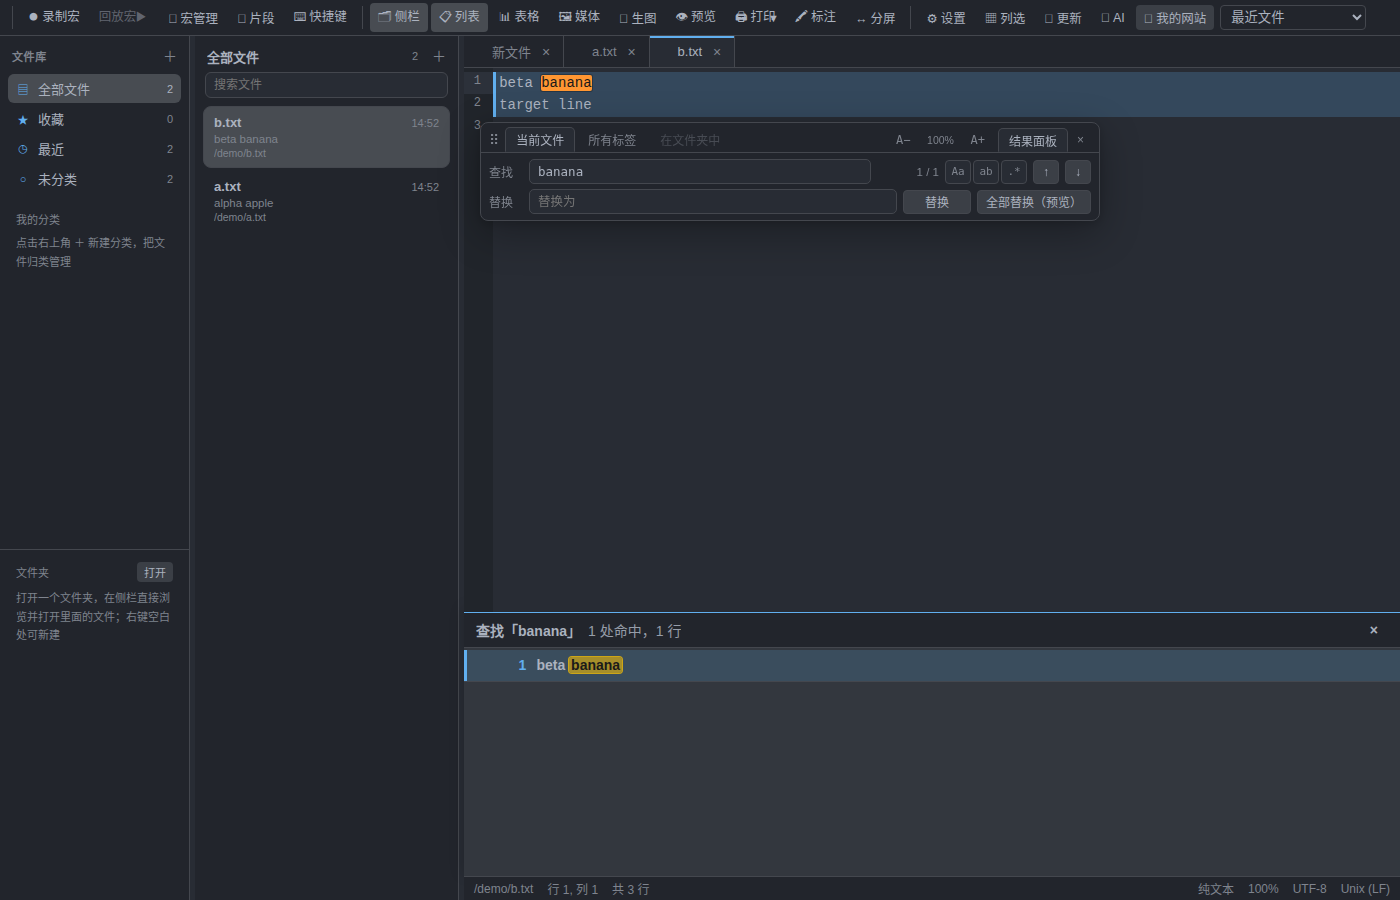
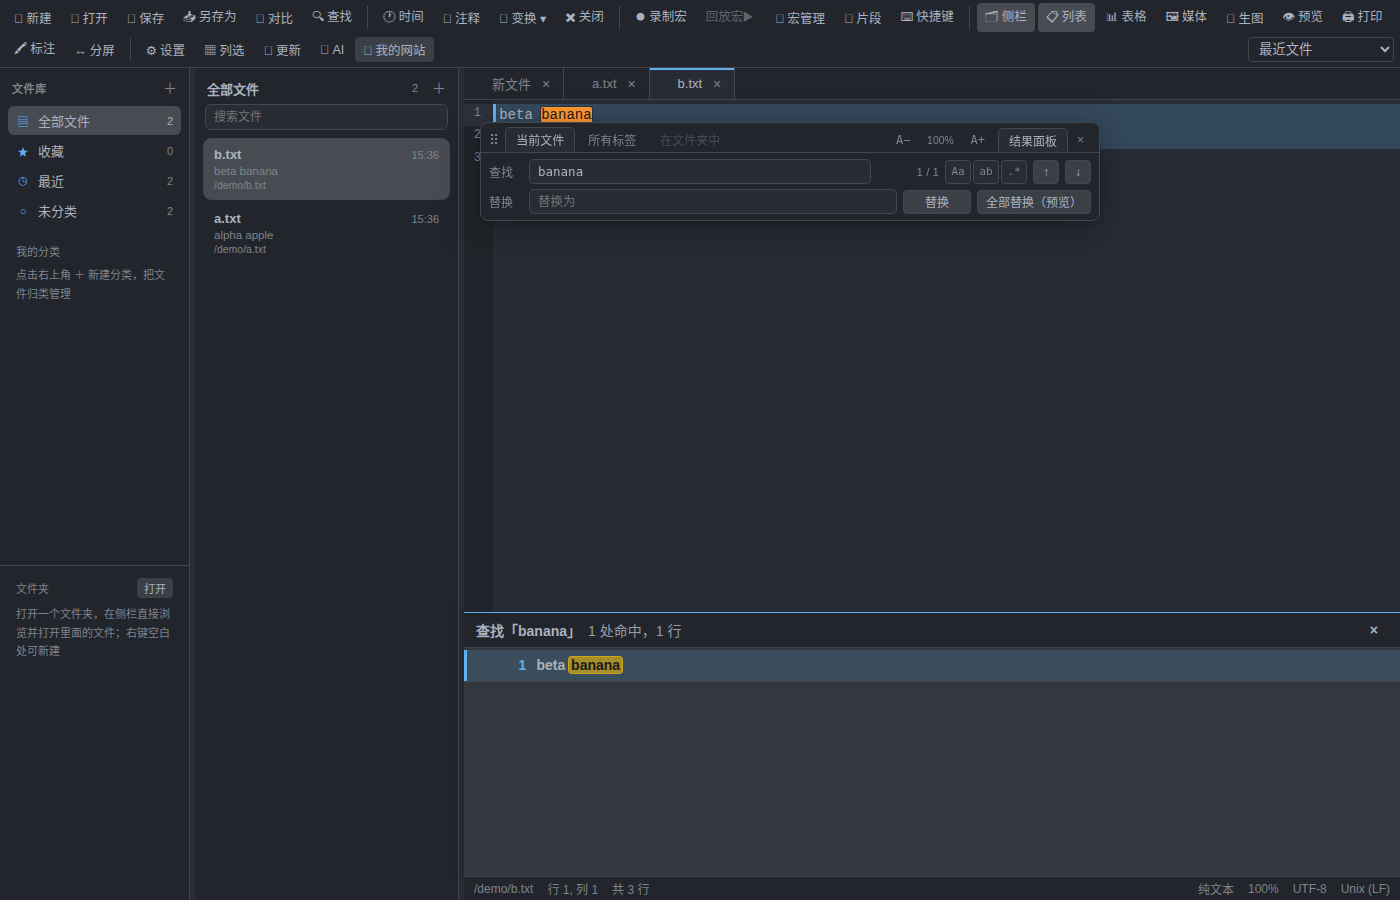
fix: v0.22.1 菜单栏回归两层换行(修复▼收纳点击异常) + 保留emoji/文字显示模式

Changed region(s): [[0.0, 0.0, 1.0, 0.3422], [0.0, 0.6222, 0.1229, 0.7467]]

diff --git a/docs/manual.html b/docs/manual.html
@@ -3,7 +3,7 @@
 <head>
 <meta charset="utf-8">
 <meta name="viewport" content="width=device-width, initial-scale=1">
-<title>NotePP 功能手册 — v0.22.0</title>
+<title>NotePP 功能手册 — v0.22.1</title>
 <meta name="description" content="NotePP 功能使用手册：文件与标签、编辑体验、主题外观、查找替换、Markdown、对比预览、标注、宏、AI 辅助与系统便捷功能。">
 <link rel="icon" href="assets/icon.png">
 <style>
@@ -152,7 +152,7 @@
   <div class="wrap">
     <a class="back" href="index.html">← 返回首页</a>
     <div class="logo">Note<span>PP</span><span class="sub">功能手册</span></div>
-    <span class="ver-badge">v0.22.0</span>
+    <span class="ver-badge">v0.22.1</span>
     <div class="search-box">
       <input id="manual-search" type="search" placeholder="搜索功能：列编辑 / 主题 / 宏 / AI …" autocomplete="off" aria-label="搜索手册功能">
       <span class="search-count" id="search-count"></span>
@@ -183,9 +183,9 @@
   <main class="content">
     <header class="hero">
       <h1>NotePP <em>功能手册</em></h1>
-      <p class="sub">从文件管理到 AI 写作，一份覆盖全部功能的完整使用指南。对应版本 v0.22.0，适用于 macOS / Windows / Linux / Android。</p>
+      <p class="sub">从文件管理到 AI 写作，一份覆盖全部功能的完整使用指南。对应版本 v0.22.1，适用于 macOS / Windows / Linux / Android。</p>
       <div class="meta">
-        <span>当前版本 <b>v0.22.0</b></span>
+        <span>当前版本 <b>v0.22.1</b></span>
         <span><b>12</b> 大功能类别</span>
         <span>技术栈 <b>Tauri 2 + React 19 + CodeMirror 6</b></span>
         <span>数据 <b>全部本地存储</b></span>
@@ -631,13 +631,13 @@ graph LR
       <div class="feature">
         <h3><span class="ic">🏷</span>版本号显示</h3>
         <div class="frow"><span class="flabel">是什么</span><span class="ftext">设置对话框标题与菜单按钮提示中会显示当前版本号。</span></div>
-        <div class="frow"><span class="flabel">怎么用</span><span class="ftext">打开「设置」即可看到 <code>v0.22.0</code>；本手册顶部同样标注当前版本。</span></div>
+        <div class="frow"><span class="flabel">怎么用</span><span class="ftext">打开「设置」即可看到 <code>v0.22.1</code>；本手册顶部同样标注当前版本。</span></div>
         <div class="path"><span class="badge">路径</span>菜单栏「设置」标题处</div>
       </div>
 
       <div class="feature">
         <h3><span class="ic">💾</span>会话恢复</h3>
-        <div class="frow"><span class="flabel">是什么</span><span class="ftext">重启应用后自动还原上次打开的标签页，接着上次的工作继续。<b>v0.22.0 起：没保存的也不会丢</b>——新建未保存的文件、已保存文件里未落盘的修改，重启后都会原样恢复（单个草稿上限 500KB）。</span></div>
+        <div class="frow"><span class="flabel">是什么</span><span class="ftext">重启应用后自动还原上次打开的标签页，接着上次的工作继续。<b>v0.22.1 起：没保存的也不会丢</b>——新建未保存的文件、已保存文件里未落盘的修改，重启后都会原样恢复（单个草稿上限 500KB）。</span></div>
         <div class="frow"><span class="flabel">怎么用</span><span class="ftext">无需设置，重新打开应用即自动恢复。</span></div>
         <div class="path"><span class="badge">路径</span>自动生效</div>
       </div>
@@ -658,10 +658,10 @@ graph LR
       </div>
 
       <div class="feature">
-        <h3><span class="ic">🧭</span>菜单栏显示模式与溢出收纳</h3>
-        <div class="frow"><span class="flabel">是什么</span><span class="ftext">菜单栏按钮支持三种显示模式：<b>emoji + 文字</b>（默认）、<b>只显示 emoji</b>（最省空间）、<b>只显示文字</b>。窗口较窄放不下全部按钮时，多余按钮自动收纳到菜单栏右侧的<b>「▼」角标</b>里，点一下展开完整菜单列表（含变换子菜单），不会再被遮挡。</span></div>
-        <div class="frow"><span class="flabel">怎么用</span><span class="ftext">「设置 → 🧭 菜单显示」切换显示模式；或点菜单栏「▼」→「🧭 菜单显示模式…」直达。手机窄屏（≤820px）仍为横向滑动。</span></div>
-        <div class="path"><span class="badge">路径</span>设置 → 菜单显示 / 菜单栏右侧「▼」</div>
+        <h3><span class="ic">🧭</span>菜单栏显示模式与两层换行</h3>
+        <div class="frow"><span class="flabel">是什么</span><span class="ftext">菜单栏按钮支持三种显示模式：<b>emoji + 文字</b>（默认）、<b>只显示 emoji</b>（最省空间）、<b>只显示文字</b>。窗口较窄放不下全部按钮时，菜单栏自动<b>换行为第二层</b>，所有按钮始终直接可见、可点，不会遮挡也不会被折叠。</span></div>
+        <div class="frow"><span class="flabel">怎么用</span><span class="ftext">「设置 → 🧭 菜单显示」切换显示模式。手机窄屏（≤820px）仍为横向滑动。</span></div>
+        <div class="path"><span class="badge">路径</span>设置 → 菜单显示</div>
       </div>
 
       <div class="feature">

diff --git a/src/App.tsx b/src/App.tsx
@@ -1800,7 +1800,6 @@ export default function App() {
       const menu = document.getElementById("tab-context-menu");
       if (menu) menu.style.display = "none";
       setTransformOpen(false);
-      setOverflowOpen(false);
     };
     window.addEventListener("click", hide);
     window.addEventListener("blur", hide);
@@ -1813,30 +1812,8 @@ export default function App() {
   const lang = detectLanguage(activeTab?.path ?? null);
   const lines = activeTab ? activeTab.content.split("\n").length : 0;
 
-  // ---------- v0.22 菜单栏：数据驱动（emoji/文字显示模式 + 溢出折叠「▼」） ----------
+  // ---------- v0.22.1 菜单栏：数据驱动（emoji/文字显示模式），两层自适应换行 ----------
   const menubarRef = useRef<HTMLDivElement>(null);
-  const [overflowed, setOverflowed] = useState(false);
-  const [overflowOpen, setOverflowOpen] = useState(false);
-  useEffect(() => {
-    const el = menubarRef.current;
-    if (!el) return;
-    const calc = () => {
-      // 非「▼」的菜单内容（按钮 + 变换下拉容器），任一右边缘超出可视宽度即收纳
-      const kids = Array.from(
-        el.querySelectorAll<HTMLElement>(":scope > button, :scope > span.menu-drop-wrap")
-      ).filter((b) => b.offsetParent !== null && !b.classList.contains("menubar-more-wrap"));
-      const hid = kids.some((b) => b.offsetLeft + b.offsetWidth > el.clientWidth - 8);
-      setOverflowed(hid);
-    };
-    calc();
-    const ro = new ResizeObserver(calc);
-    ro.observe(el);
-    window.addEventListener("resize", calc);
-    return () => {
-      ro.disconnect();
-      window.removeEventListener("resize", calc);
-    };
-  }, []);
 
   /** 菜单项渲染：图标 + 文字（顺序可倒），显示模式由 CSS 类控制 */
   const mbContent = (it: { ico?: string; txt?: string; icoAfter?: boolean }): ReactNode => (
@@ -1928,10 +1905,10 @@ export default function App() {
 
   return (
     <div className="app">
-      {/* 菜单栏（v0.22：数据驱动 + 显示模式 + 溢出折叠「▼」） */}
+      {/* 菜单栏（v0.22.1：数据驱动 + 显示模式，两层自适应换行） */}
       <div
         ref={menubarRef}
-        className={`menubar menu-${editorSettings.menuDisplay}${overflowed ? " has-more" : ""}`}
+        className={`menubar menu-${editorSettings.menuDisplay}`}
       >
         {menuItems.map((it, i) =>
           it.sep ? (
@@ -1964,65 +1941,6 @@ export default function App() {
           )
         )}
         <span className="spacer" />
-        {overflowed && (
-          <span className="menu-drop-wrap menubar-more-wrap">
-            <button
-              className="menubar-more"
-              onClick={(e) => {
-                e.stopPropagation();
-                setOverflowOpen((v) => !v);
-              }}
-              title="更多菜单项（窗口较窄，其余按钮收纳在此）"
-            >
-              ▼
-            </button>
-            {overflowOpen && (
-              <div className="context-menu menubar-overflow" onClick={(e) => e.stopPropagation()}>
-                {menuItems.map((it, j) =>
-                  it.sep ? (
-                    <span key={`os${j}`} className="overflow-sep" />
-                  ) : it.drop ? (
-                    TRANSFORM_ITEMS.map((t) => (
-                      <button
-                        key={t.id}
-                        onClick={() => {
-                          setOverflowOpen(false);
-                          executeCommand(t.id);
-                        }}
-                        title={BUILTIN_COMMANDS.find((c) => c.id === t.id)?.desc}
-                      >
-                        {t.label}
-                        {shortcutOf(t.id) && <span className="menu-key"> {shortcutOf(t.id)}</span>}
-                      </button>
-                    ))
-                  ) : (
-                    <button
-                      key={j}
-                      onClick={() => {
-                        setOverflowOpen(false);
-                        it.onClick?.();
-                      }}
-                      disabled={it.disabled}
-                      className={it.cls}
-                      title={it.title ?? ""}
-                    >
-                      {mbContent(it)}
-                    </button>
-                  )
-                )}
-                <button
-                  onClick={() => {
-                    setOverflowOpen(false);
-                    setSettingsOpen(true);
-                  }}
-                  title="切换菜单栏显示模式：emoji+文字 / 只 emoji / 只文字"
-                >
-                  🧭 菜单显示模式…
-                </button>
-              </div>
-            )}
-          </span>
-        )}
         {recent.length > 0 && (
           <select
             className="recent-select"

diff --git a/src/styles/app.css b/src/styles/app.css
@@ -87,22 +87,16 @@ body {
   flex: 1;
 }
 
-/* 菜单栏（v0.22：单行收纳，溢出按钮折叠进「▼」；显示模式 emoji/文字可切） */
+/* 菜单栏（v0.22.1：两层自适应换行；显示模式 emoji/文字可切） */
 .menubar {
   display: flex;
-  flex-wrap: nowrap;
+  flex-wrap: wrap;
   align-items: center;
   gap: 3px;
   padding: 3px 6px;
   background: var(--ui-panel);
   border-bottom: 1px solid var(--ui-border);
   user-select: none;
-  overflow: hidden;
-  position: relative;
-  min-height: 30px;
-}
-.menubar.has-more {
-  padding-right: 34px;
 }
 .menubar .m-ico {
   margin-right: 3px;
@@ -112,35 +106,6 @@ body {
 }
 .menubar.menu-text .m-ico {
   display: none;
-}
-.menubar .menubar-more {
-  padding: 3px 9px;
-  font-size: 11px;
-  letter-spacing: 1px;
-}
-.menubar .menubar-more-wrap {
-  position: absolute;
-  right: 4px;
-  top: 2px;
-  bottom: 2px;
-  align-items: center;
-}
-.menubar .menubar-more-wrap .menubar-overflow {
-  display: block;
-  position: absolute;
-  top: 100%;
-  right: 0;
-  left: auto;
-  z-index: 80;
-  max-height: 70vh;
-  overflow-y: auto;
-  min-width: 180px;
-}
-.menubar .overflow-sep {
-  display: block;
-  height: 1px;
-  margin: 3px 6px;
-  background: var(--ui-border);
 }
 
 .menubar button {
@@ -1838,9 +1803,6 @@ button.link {
     flex-wrap: nowrap;
     padding: 2px 4px;
     scrollbar-width: none;
-  }
-  .menubar .menubar-more-wrap {
-    display: none;
   }
   .menubar::-webkit-scrollbar {
     display: none;
